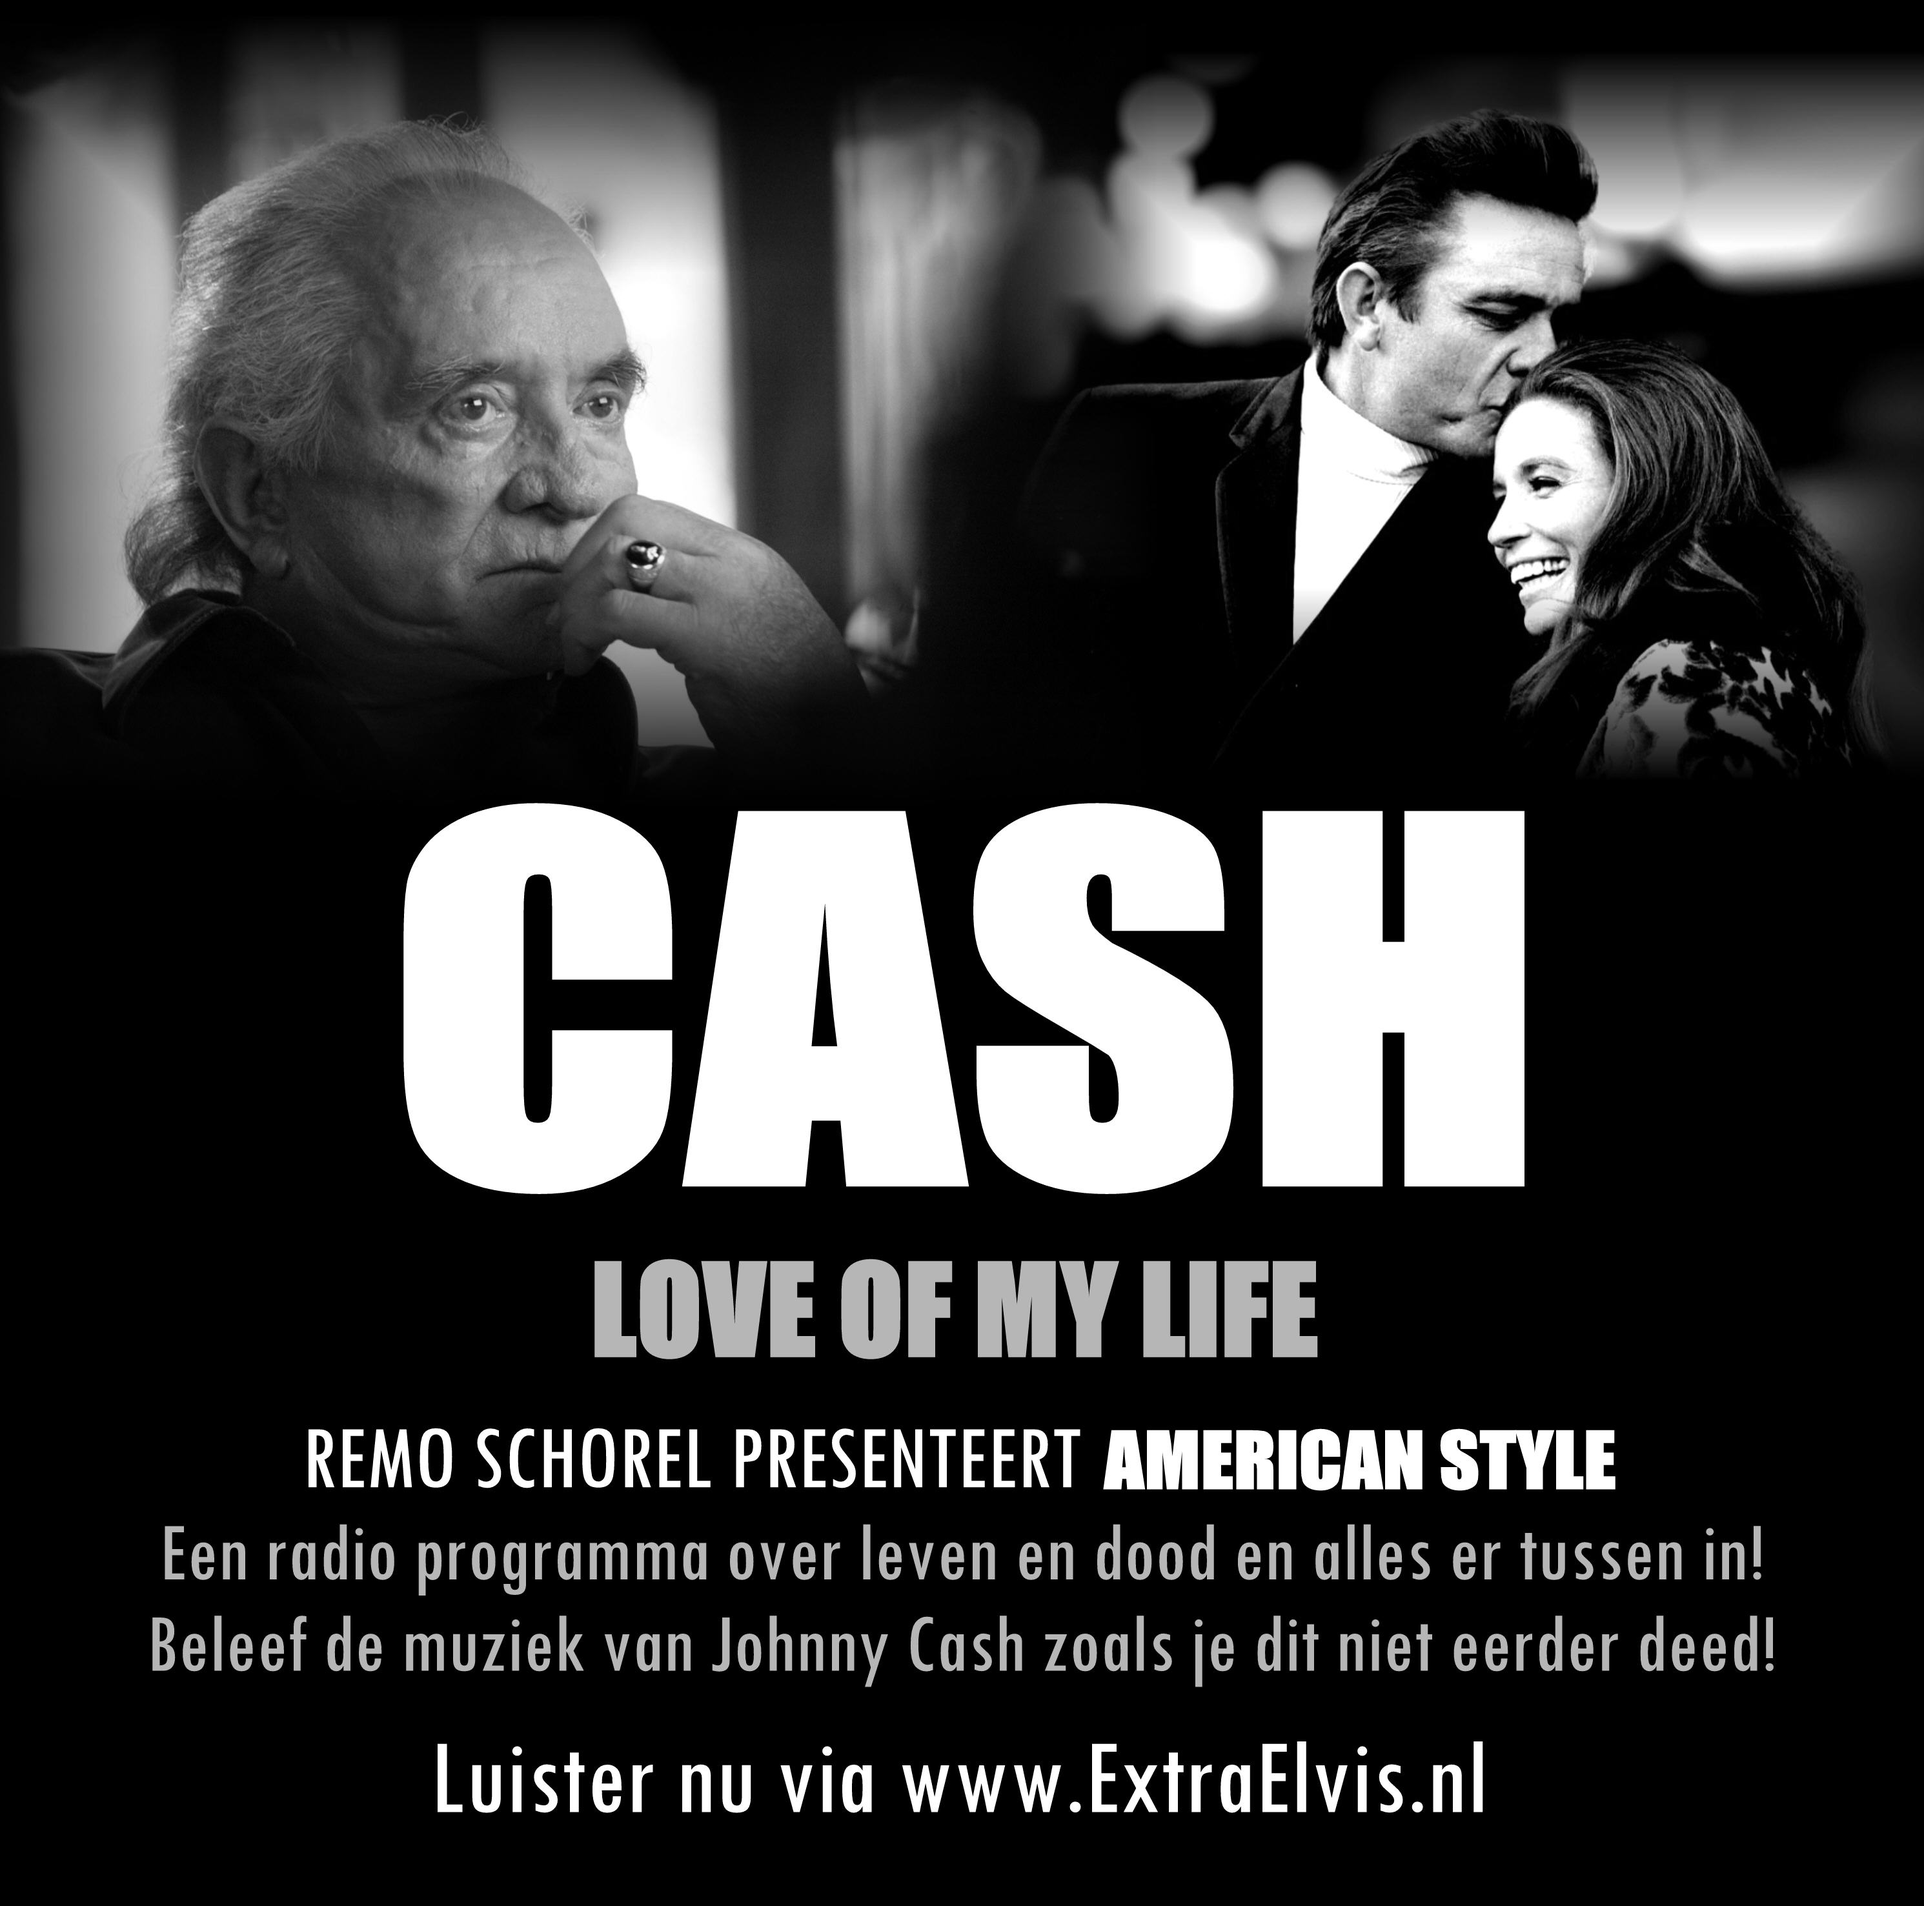
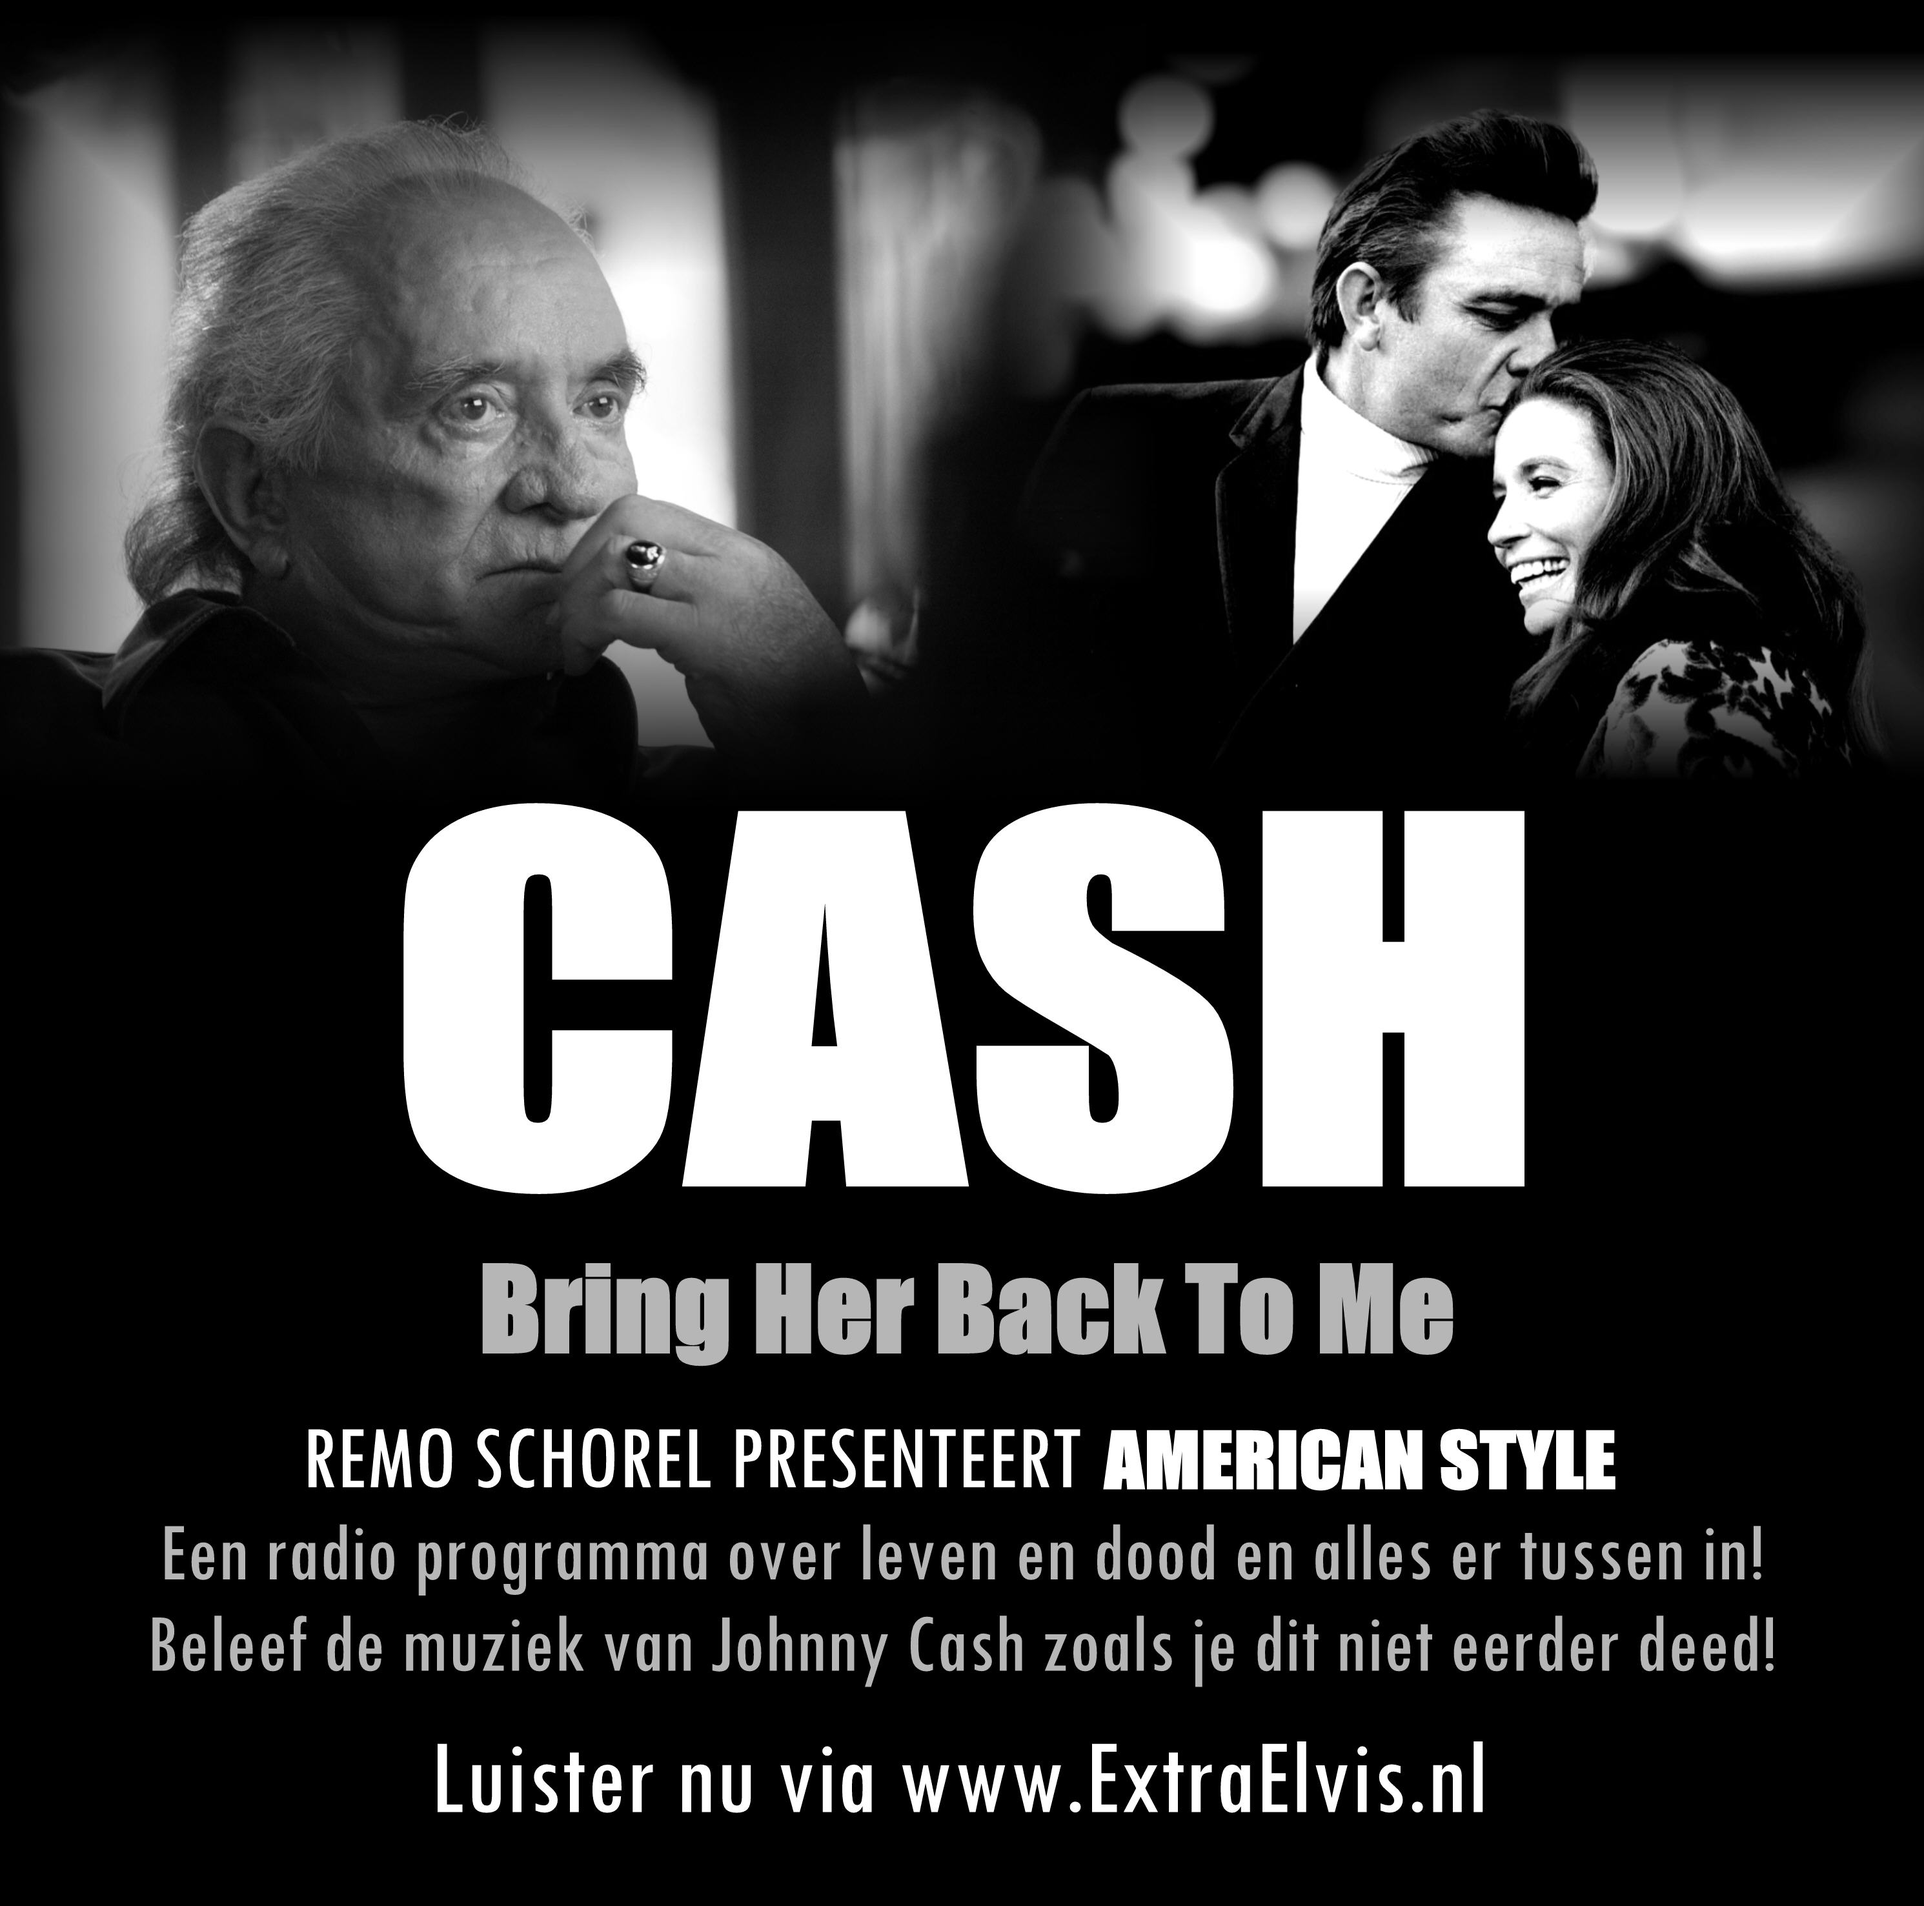
CASH Progamma 2

Changed region(s): [[0.2496, 0.6542, 0.7799, 0.7166]]

diff --git a/index.html b/index.html
@@ -12,7 +12,7 @@
 
 <main>
   <section class="flyer">
-  	<a href="https://pixeldrain.com/u/3A9SpWzR" target="_blank">
+  	<a href="https://pixeldrain.com/u/pEtKst4W" target="_blank">
   		<img src="assets/cash-flyer.jpg" alt="Flyer met de tekst De Magie Van Elvis" />
   	</a>
   </section>
@@ -20,8 +20,8 @@
   <section class="afleveringen">
     <!-- <h1>Luisteren</h1> -->
     <ul>
-        <a href="https://pixeldrain.com/u/3A9SpWzR" target="_blank">
-            <li><h2>CASH Love of my life</h2><span>Klik hier om te luisteren</span><p>Een radio programma over Johnny Cash, liefde en dood en alles er tussen in!</p></li>
+        <a href="https://pixeldrain.com/u/pEtKst4W" target="_blank">
+            <li><h2>CASH Bring Her Back To Me</h2><span>Klik hier om te luisteren</span><p>Een radio programma over Johnny Cash, liefde en dood en alles er tussen in!</p></li>
         </a>
     	<a href="https://pixeldrain.com/u/PmSkAieX" target="_blank">
       		<li><h2>De Magie Van Elvis</h2><span>Klik hier om te luisteren</span><p>In deze aflevering o.a aandacht voor Elvis Is Back en Elvis Now.</p></li>
